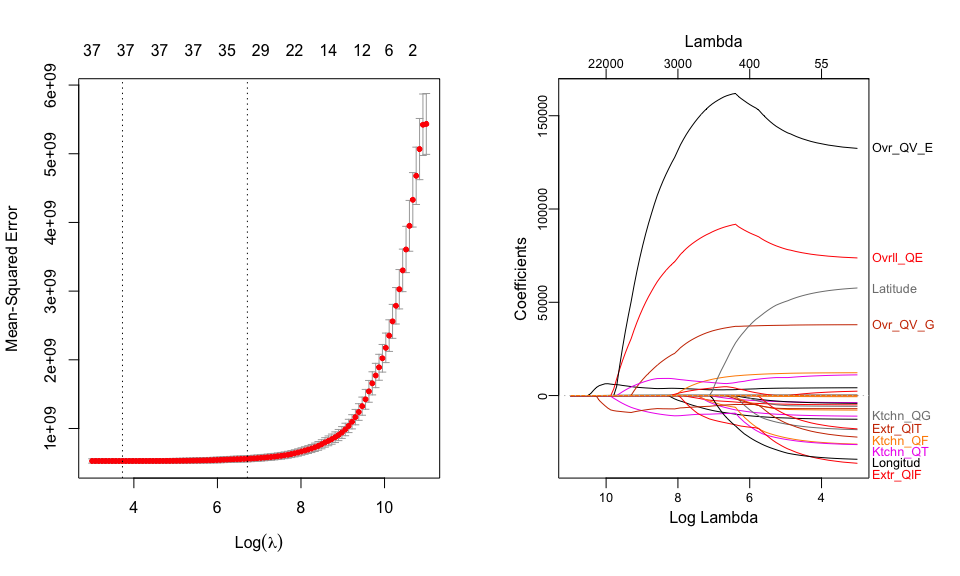
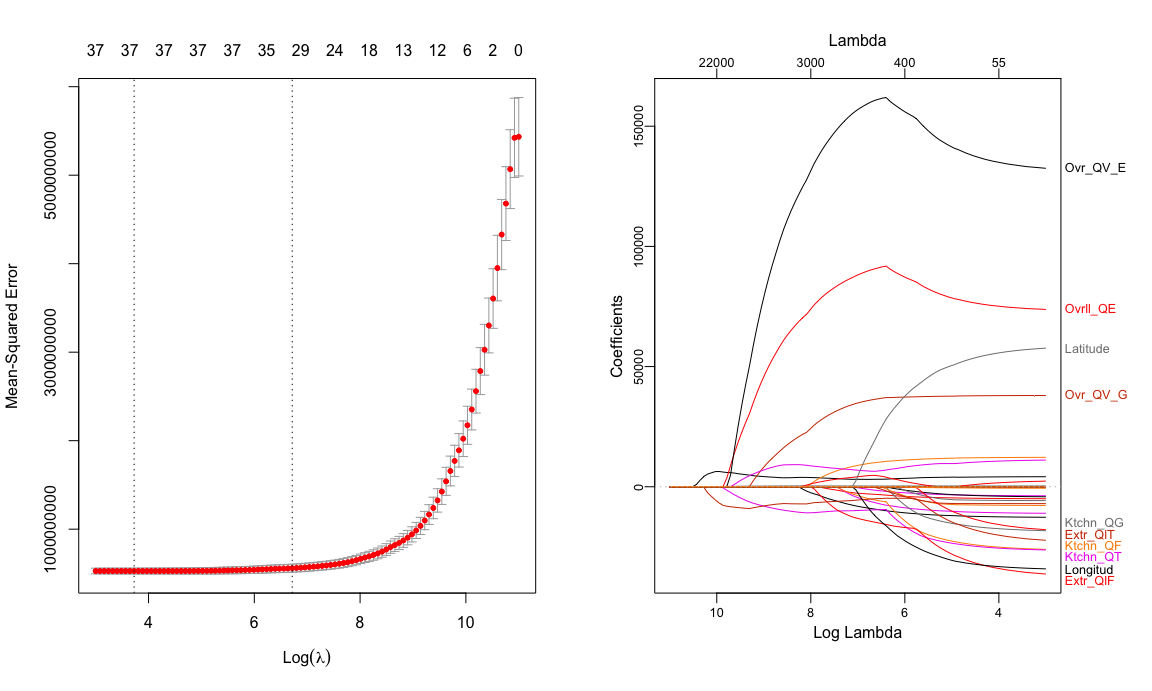
modify...

diff --git a/p8106_hw1_qw2331.md b/p8106_hw1_qw2331.md
@@ -11,10 +11,24 @@ testHousing <- read_csv("./data/housing_test.csv")
 # For each column in train data
 # Check missing values
 sum(colSums(is.na(trainHousing)))
+
+# Check outliers
+trainHousing[, -c(15, 16, 18, 19, 26)] %>% # Exclude character & response columns
+  pivot_longer(
+    everything(),
+    names_to = "Variable",
+    values_to = "Value"
+  ) %>%
+  ggplot(aes(x = Variable, y = Value)) + 
+  geom_boxplot(aes(color = Variable), show.legend = FALSE) + 
+  facet_wrap(~ Variable, scales = "free", nrow = 3, ncol = 7) + 
+  theme(axis.text.x = element_blank())
 ```
 
+<img src="p8106_hw1_qw2331_files/figure-gfm/unnamed-chunk-1-1.png" width="90%" />
+
 -   In general, there are `25` predictors and `1440` observations
-    without missing values.  
+    `without` missing values.  
 -   The response of the data is `Sale_Price`.  
 -   There are `4` categorical predictors so additional transformations
     are needed as they are difficult to interpret in the result and will
@@ -31,7 +45,7 @@ test_y <- testHousing$Sale_Price
 
 # Correlation plot
 corrplot(cor(train_x), 
-         type = "upper", tl.cex = .8, tl.col = "black")
+         type = "full", tl.cex = .7, tl.col = "black")
 ```
 
 <img src="p8106_hw1_qw2331_files/figure-gfm/unnamed-chunk-2-1.png" width="90%" />
@@ -45,7 +59,7 @@ lm_fit <- train(train_x, train_y,
                 method = "lm",
                 trControl = trainControl(method = "cv", number = 10))
 
-# Show coefficients of 38 predictors
+# Coefficients of 39 predictors
 lm_fit$finalModel$coefficients[-1]
 ```
 
@@ -90,12 +104,14 @@ lm_fit$finalModel$coefficients[-1]
     ##                  Year_Sold 
     ##                -645.465513
 
-**Disadvantage:** Based on both the correlation plot and the modeling
-result, the disadvantage of using least squares to fit a linear model in
-this case is that there are some collinear covariates. When two
-predictor variables are highly correlated, the variance of the estimated
-function will increase and lead to a higher MSE and lower prediction
-accuracy.
+-   **Disadvantage of using least squares:**
+    -   One drawback is that there are some collinear covariates. When
+        two predictor variables are highly correlated, the variance of
+        the estimated function will increase and thus a higher MSE and
+        lower prediction accuracy.  
+    -   The other one is that least-squares method is highly sensitive
+        to outliers as it simply minimizes the redisuals of each data
+        point.
 
 ### Lasso
 
@@ -119,58 +135,67 @@ predict(cv_lasso, s = "lambda.1se", type = "coefficients")
 ```
 
     ## 40 x 1 sparse Matrix of class "dgCMatrix"
-    ##                               lambda.1se
-    ## (Intercept)                -2.224119e+06
-    ## Gr_Liv_Area                 5.659862e+01
-    ## First_Flr_SF                1.126315e+00
-    ## Second_Flr_SF               .           
-    ## Total_Bsmt_SF               3.675070e+01
-    ## Low_Qual_Fin_SF            -2.606145e+01
-    ## Wood_Deck_SF                8.305179e+00
-    ## Open_Porch_SF               7.878145e+00
-    ## Bsmt_Unf_SF                -1.945568e+01
-    ## Mas_Vnr_Area                1.425948e+01
-    ## Garage_Cars                 3.071512e+03
-    ## Garage_Area                 1.134094e+01
-    ## Year_Built                  3.138267e+02
-    ## TotRms_AbvGrd              -1.223942e+03
-    ## Full_Bath                   .           
-    ## Overall_QualAverage        -3.060241e+03
-    ## Overall_QualBelow_Average  -9.072751e+03
-    ## Overall_QualExcellent       9.023669e+04
-    ## Overall_QualFair           -6.225791e+03
-    ## Overall_QualGood            9.829696e+03
-    ## Overall_QualVery_Excellent  1.601167e+05
-    ## Overall_QualVery_Good       3.611322e+04
-    ## Kitchen_QualFair           -5.186951e+03
-    ## Kitchen_QualGood            .           
-    ## Kitchen_QualTypical        -9.676461e+03
-    ## Fireplaces                  6.462742e+03
-    ## Fireplace_QuFair            .           
-    ## Fireplace_QuGood            4.727746e+03
-    ## Fireplace_QuNo_Fireplace    .           
-    ## Fireplace_QuPoor            .           
-    ## Fireplace_QuTypical         .           
-    ## Exter_QualFair             -1.443030e+04
-    ## Exter_QualGood              .           
-    ## Exter_QualTypical          -5.099589e+03
-    ## Lot_Frontage                7.002012e+01
-    ## Lot_Area                    5.587230e-01
-    ## Longitude                  -1.029452e+04
-    ## Latitude                    1.634862e+04
-    ## Misc_Val                    .           
-    ## Year_Sold                   .
+    ##                                 lambda.1se
+    ## (Intercept)                -2224118.562333
+    ## Gr_Liv_Area                      56.598618
+    ## First_Flr_SF                      1.126315
+    ## Second_Flr_SF                     .       
+    ## Total_Bsmt_SF                    36.750704
+    ## Low_Qual_Fin_SF                 -26.061451
+    ## Wood_Deck_SF                      8.305179
+    ## Open_Porch_SF                     7.878145
+    ## Bsmt_Unf_SF                     -19.455680
+    ## Mas_Vnr_Area                     14.259477
+    ## Garage_Cars                    3071.512417
+    ## Garage_Area                      11.340938
+    ## Year_Built                      313.826712
+    ## TotRms_AbvGrd                 -1223.941524
+    ## Full_Bath                         .       
+    ## Overall_QualAverage           -3060.240960
+    ## Overall_QualBelow_Average     -9072.750593
+    ## Overall_QualExcellent         90236.692623
+    ## Overall_QualFair              -6225.790608
+    ## Overall_QualGood               9829.696034
+    ## Overall_QualVery_Excellent   160116.730523
+    ## Overall_QualVery_Good         36113.221679
+    ## Kitchen_QualFair              -5186.950779
+    ## Kitchen_QualGood                  .       
+    ## Kitchen_QualTypical           -9676.460765
+    ## Fireplaces                     6462.742412
+    ## Fireplace_QuFair                  .       
+    ## Fireplace_QuGood               4727.745942
+    ## Fireplace_QuNo_Fireplace          .       
+    ## Fireplace_QuPoor                  .       
+    ## Fireplace_QuTypical               .       
+    ## Exter_QualFair               -14430.295128
+    ## Exter_QualGood                    .       
+    ## Exter_QualTypical             -5099.588982
+    ## Lot_Frontage                     70.020122
+    ## Lot_Area                          0.558723
+    ## Longitude                    -10294.516873
+    ## Latitude                      16348.622605
+    ## Misc_Val                          .       
+    ## Year_Sold                         .
 
 ``` r
 # Calculate the test error
 lasso_rmse <- 
   RMSE(pred = predict(cv_lasso, newx = test_x, 
                       s = "lambda.min", type = "response"), obs = test_y)
+
+# --- Use caret ---
+set.seed(1234)
+
+lasso_fit <- train(train_x, train_y,
+                   method = "glmnet",
+                   tuneGrid = expand.grid(alpha = 1,
+                                          lambda = exp(seq(11, 3, length = 100))),
+                   trControl = trainControl(method = "cv", selectionFunction = "oneSE"))
 ```
 
-**Results:** The test error of the lasso regression model is
-`2.1032646\times 10^{4}`. And when the 1SE rule is applied, there are
-`29` predictors included in the model.
+-   **Results:** The test error of the lasso regression is `21032.65`.
+    When the 1SE rule is applied, there are `29` predictors included in
+    the model.
 
 ### Elastic net
 
@@ -194,3 +219,5 @@ enet_fit$bestTune
 
     ##          alpha   lambda
     ## 183 0.05263158 754.6565
+
+### Partial least squares (PLS)
